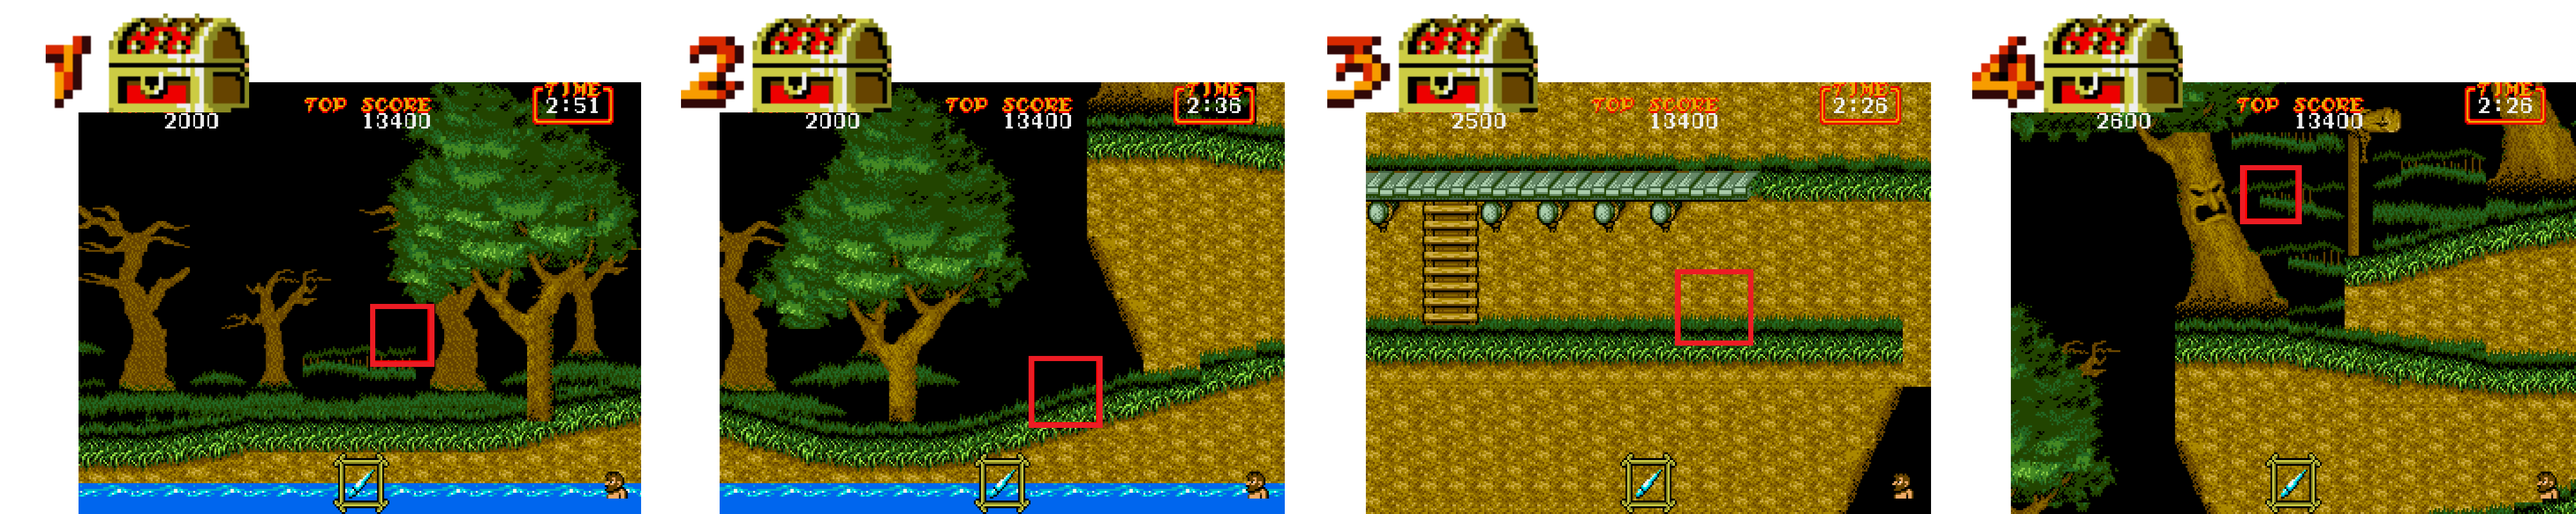
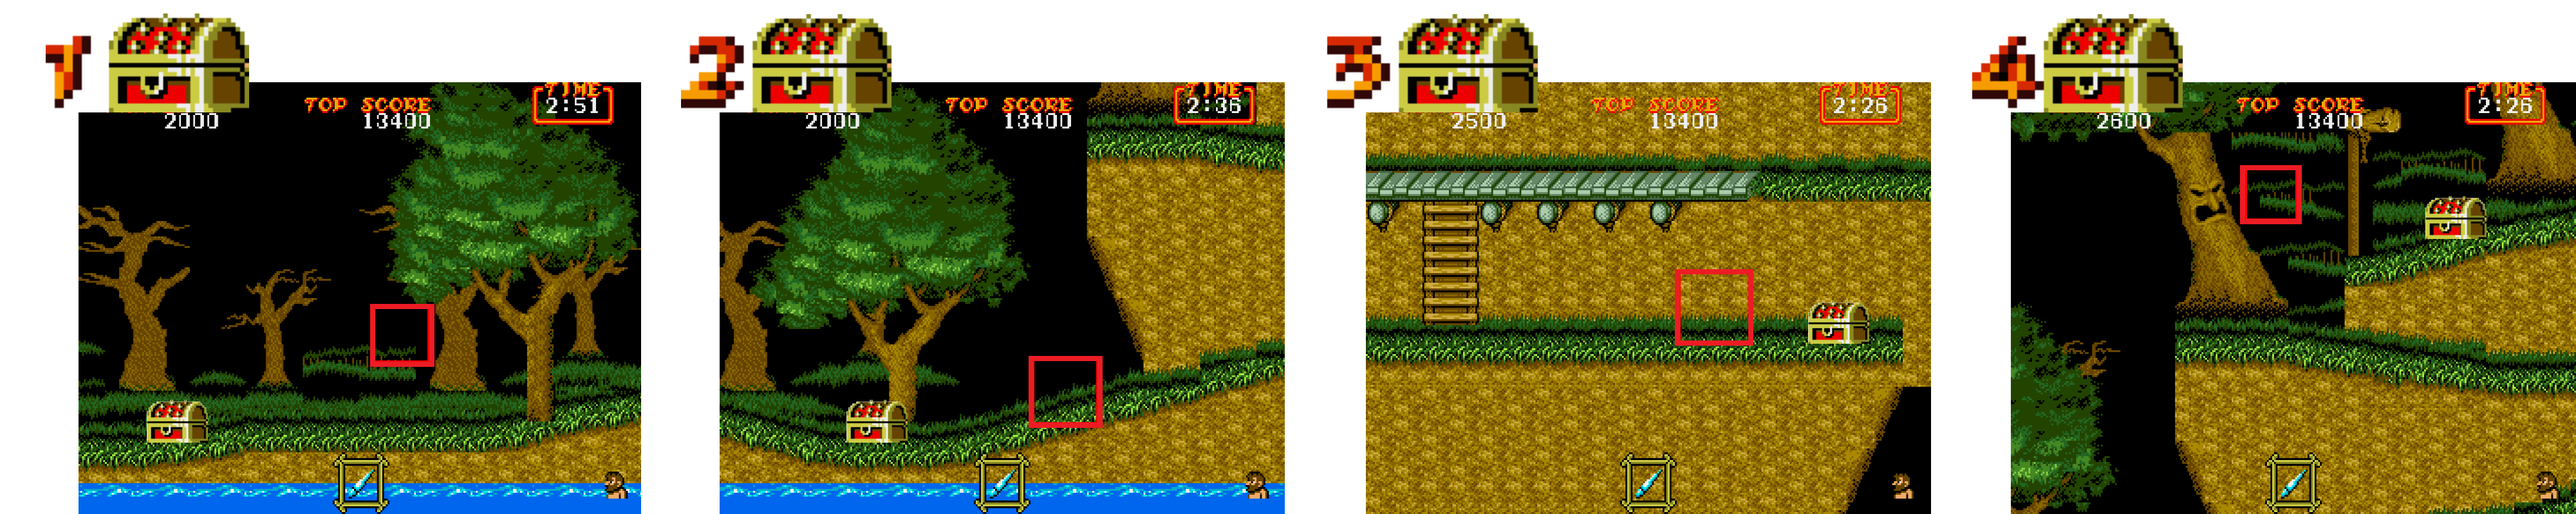
Chest location fix

diff --git a/ghoulsmd/ghoulsmd.html b/ghoulsmd/ghoulsmd.html
@@ -425,7 +425,7 @@
     <img src="gif/14.png" width="100%" height="auto">
 
     <p>
-        The numbers mean the order you reveal them, so it is important to memorize this chart so you can count how many chest you revealed and which armor situation you are in to know what is on the next chest. It's important to reveal chest all the time so in case you lose the armor, you can recover it in the future on chest 4.
+        The numbers mean the order you reveal them, so it is important to memorize this chart so you can count how many chest you revealed and which armor situation you are in to know what is on the next chest. It's important to reveal as many chests on our path as we can in case you lose the armor, you can recover it in the future on chest 4.
     </p>
 
     <p>
@@ -1402,7 +1402,7 @@
     </p>
 
     <p>
-        Right before the checkpoint, we will have to deal with an arremer. First, he will throw a skull so you have to walk for a few frames when you get to the skull mountain (0:01).The safest way to deal with him is to cross the checkpoint and take a death to despawn it. The fast way is trying to kill it while we keep going on with the stage. To kill it, you need to use the quick kill strategy, this is hard because you will have to deal with the arremer at the same time of running through the rest of the stage, it's not guaranteed that the arremer will die fast so despawning the arremer is not that time consuming.
+        Right before the checkpoint, we will have to deal with an arremer. This arremer is the king and takes 4 hits to kill. First, he will throw a skull so you have to walk for a few frames when you get to the skull mountain (0:01).The safest way to deal with him is to cross the checkpoint and take a death to despawn it. The fast way is trying to kill it while we keep going on with the stage. To kill it, you need to use the quick kill strategy, this is hard because you will have to deal with the arremer at the same time of running through the rest of the stage, it's not guaranteed that the arremer will die fast so despawning the arremer is not that time consuming.
     </p>
 
    
